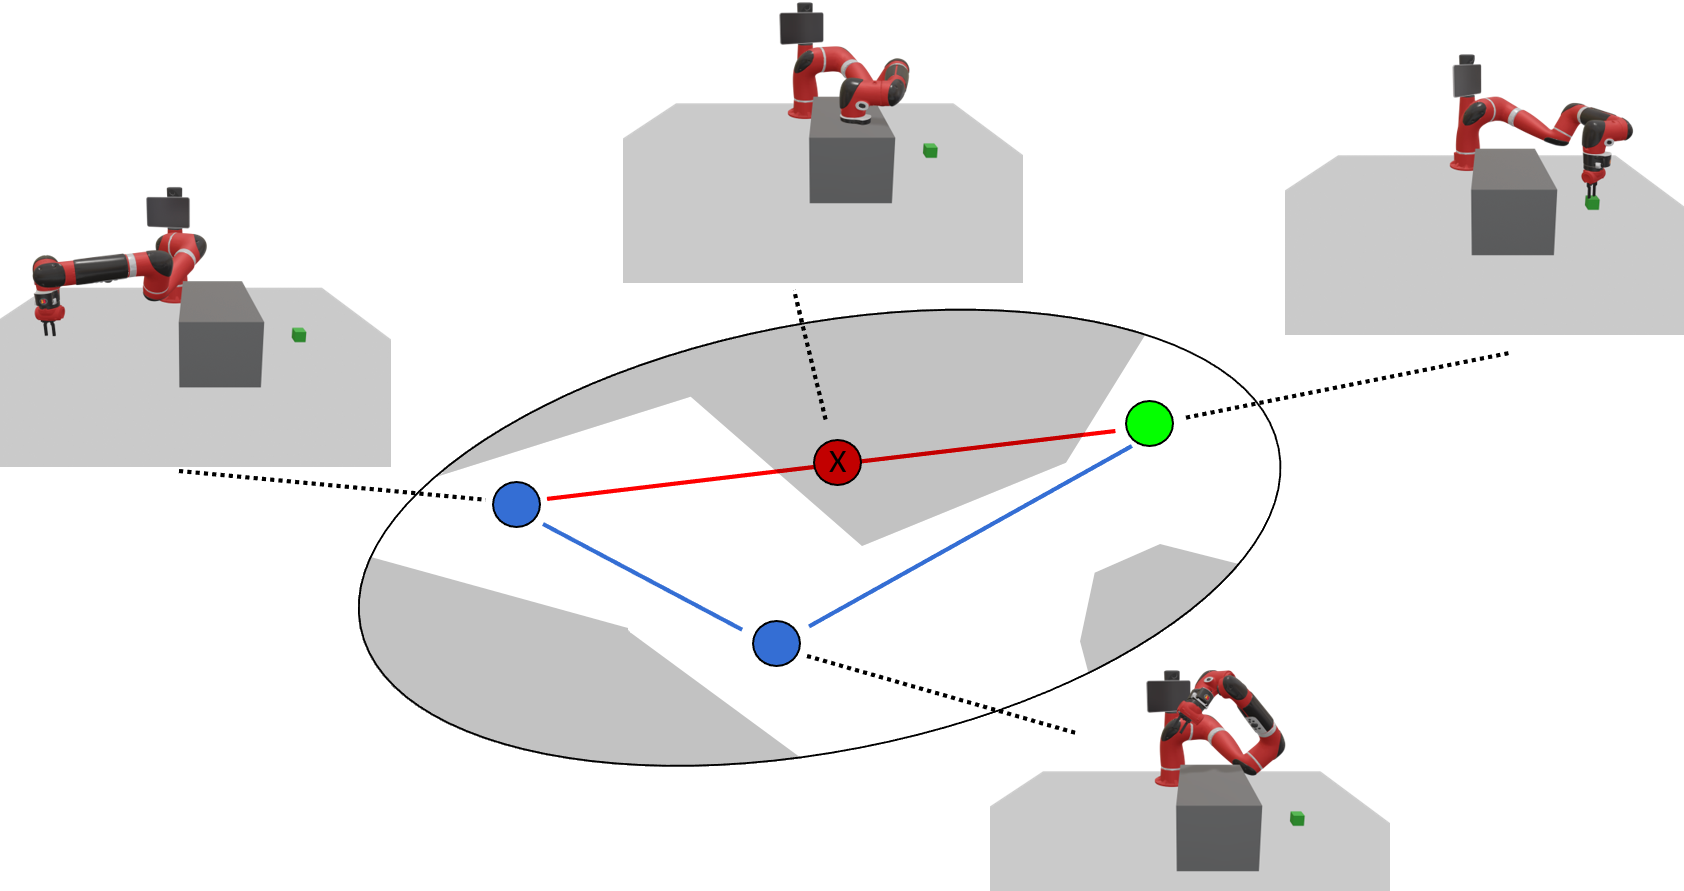
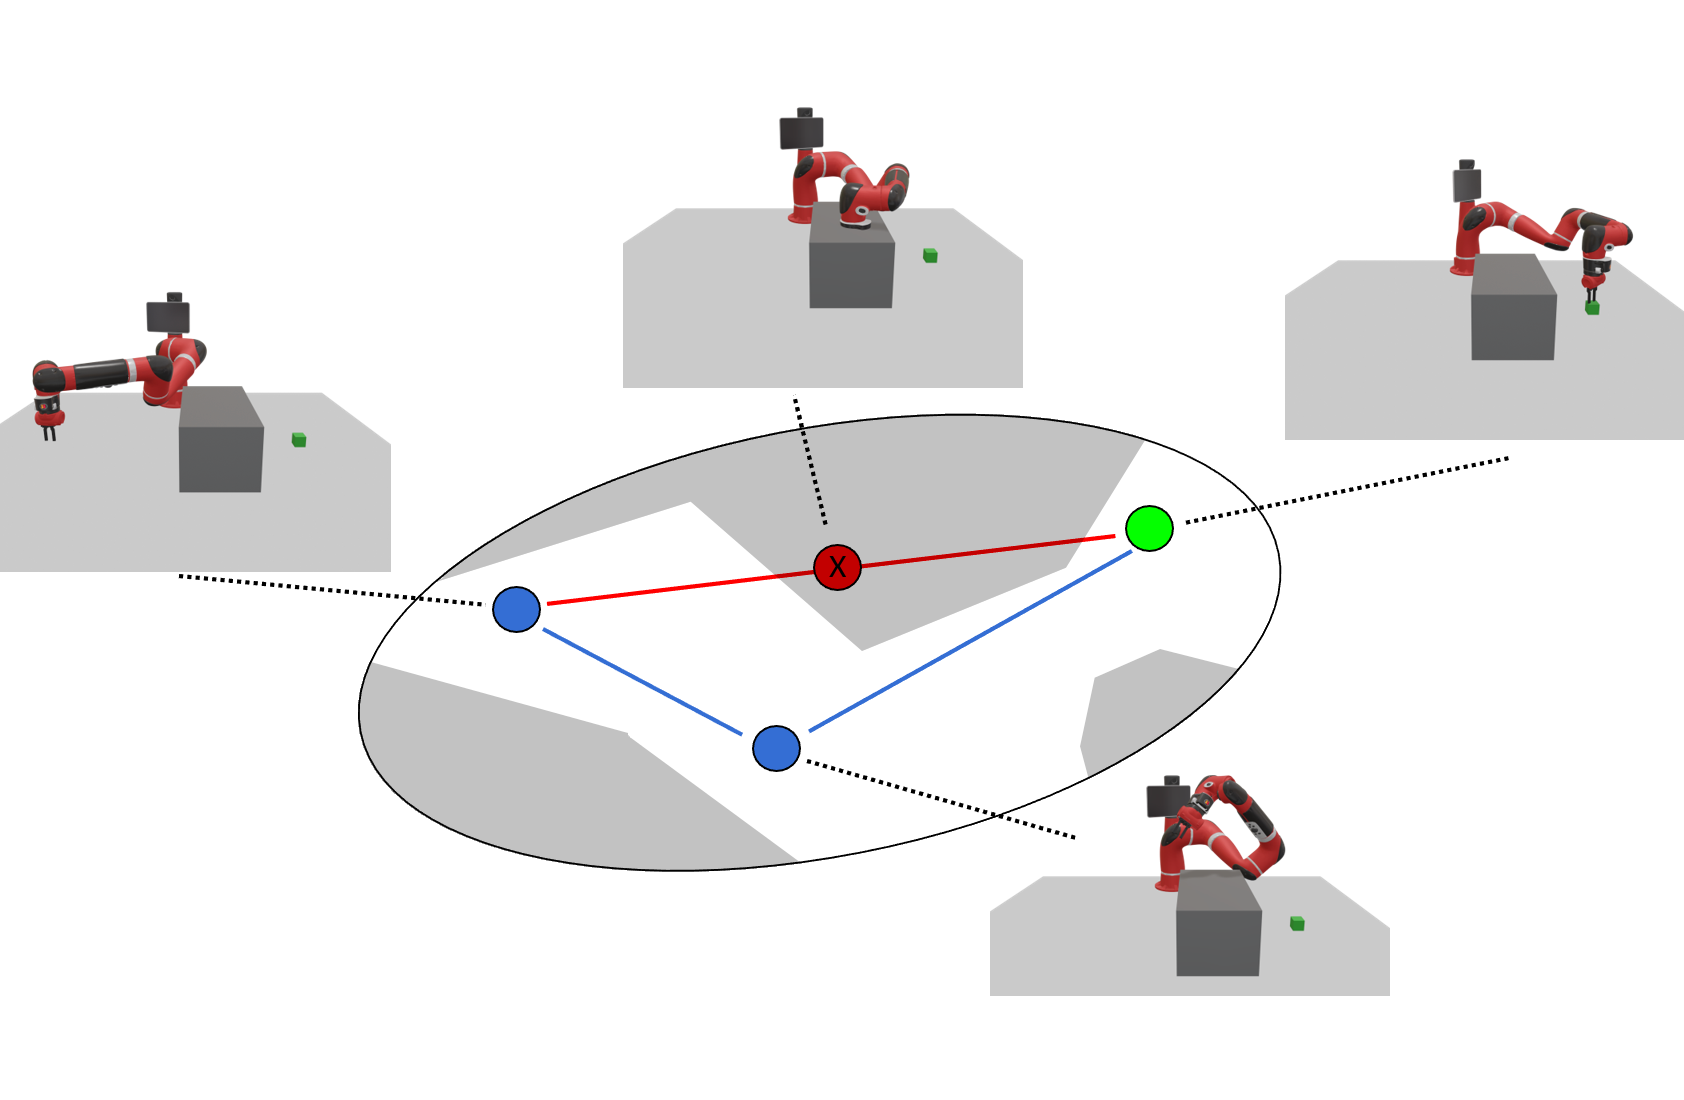
fix image scales

diff --git a/index.html b/index.html
@@ -64,24 +64,30 @@
         <section class="reveal r-stretch" data-transition="fade" data-background-image="dist/images/background.png" >
             <h2 class="title">Introduction</h2>
             <div class="slide-content">
-                <ul class="my-list" style="--spacing: 5vb;">
-                    <li>I am a first time presenter and attender
-                    <li>About me: I work as a robotics scientist at PickNik Robotics. I earned my PhD in computer
-                        science from the University of New Hampshire on the topic of robot learning from demonstration.
-                    <li>I was the primary developer of <code>generate_parameter_library</code>, a ROS 2 library with a
-                        declarative syntax for managing parameters
-                </ul>
+                <ol class="my-list" style="--spacing: 10vb;">
+                    <li>I am a first time presenter and attender at CppCon
+                    <li>About me: I work as a robotics scientist at PickNik Robotics
+                    <li>I earned my PhD in computer science from the University of New Hampshire on the topic of robot learning
+<!--                    <li>I am the primary developer of <code>generate_parameter_library</code>, a ROS 2 library with a-->
+<!--                        declarative syntax for managing parameters-->
+                </ol>
             </div>
         </section>
 
         <section class="reveal r-stretch" data-transition="fade" data-background-image="dist/images/background.png" >
             <h2 class="title">Outline</h2>
             <div class="slide-content">
-                <ul class="my-list" style="--spacing: 5vb;">
-                    <li>Motivate the topic
-                    <li>High level code concept for proposal
-                    <li>Memory layout and performance
-                    <li>Real robot application
+                <ul class="my-list" style="--spacing: 4vb;">
+                    <li>Background
+                    <li>Motivation
+                    <li>Build Process
+                    <li>Code Implementation
+                    <ul class="my-list" style="--spacing: 1vb;">
+                        <li>kinematics interface
+                        <li>memory layout and performance
+                        <li>test executable
+                    </ul>
+                    <li>Results
                     <li>Summary: lessons learned
                 </ul>
             </div>
@@ -92,17 +98,15 @@
         </section>
 
         <section class="reveal r-stretch" data-transition="fade" data-background-image="dist/images/background.png" >
-            <h2 class="title">Background</h2>
-            <div class="slide-content" style="text-align: center">
-                <img style="margin-left: 0vb;margin-top: -5vb; width: 1536px;" src="dist/images/sawyer1.png">
+            <div class="title-slide-content">
+                <img style="--r-block-margin: 0;" src="dist/images/sawyer1.png" class="full-image" >
             </div>
         </section>
 
         <section class="reveal r-stretch" data-transition="fade" data-background-image="dist/images/background.png" >
-            <h2 class="title">Background</h2>
-            <div class="slide-content" style="text-align: center">
-                <img style="margin-top: -5vb; width: 1536px; position: absolute; transform: translate(-768px, 0);" src="dist/images/sawyer2.png">
-                <img class="fragment fade-in" style="margin-top: -5vb;width: 1536px; position: absolute; transform: translate(-768px, 0);" src="dist/images/sawyer3.png">
+            <div class="title-slide-content">
+                <img style="--r-block-margin: 0;" src="dist/images/sawyer2.png" class="full-image" >
+                <img class="full-image fragment fade-in" style="--r-block-margin: 0;"  src="dist/images/sawyer3.png">
             </div>
         </section>
 

diff --git a/template.html b/template.html
@@ -64,24 +64,30 @@
         <section class="reveal r-stretch" data-transition="fade" data-background-image="dist/images/background.png" >
             <h2 class="title">Introduction</h2>
             <div class="slide-content">
-                <ul class="my-list" style="--spacing: 5vb;">
-                    <li>I am a first time presenter and attender
-                    <li>About me: I work as a robotics scientist at PickNik Robotics. I earned my PhD in computer
-                        science from the University of New Hampshire on the topic of robot learning from demonstration.
-                    <li>I was the primary developer of <code>generate_parameter_library</code>, a ROS 2 library with a
-                        declarative syntax for managing parameters
-                </ul>
+                <ol class="my-list" style="--spacing: 10vb;">
+                    <li>I am a first time presenter and attender at CppCon
+                    <li>About me: I work as a robotics scientist at PickNik Robotics
+                    <li>I earned my PhD in computer science from the University of New Hampshire on the topic of robot learning
+<!--                    <li>I am the primary developer of <code>generate_parameter_library</code>, a ROS 2 library with a-->
+<!--                        declarative syntax for managing parameters-->
+                </ol>
             </div>
         </section>
 
         <section class="reveal r-stretch" data-transition="fade" data-background-image="dist/images/background.png" >
             <h2 class="title">Outline</h2>
             <div class="slide-content">
-                <ul class="my-list" style="--spacing: 5vb;">
-                    <li>Motivate the topic
-                    <li>High level code concept for proposal
-                    <li>Memory layout and performance
-                    <li>Real robot application
+                <ul class="my-list" style="--spacing: 4vb;">
+                    <li>Background
+                    <li>Motivation
+                    <li>Build Process
+                    <li>Code Implementation
+                    <ul class="my-list" style="--spacing: 1vb;">
+                        <li>kinematics interface
+                        <li>memory layout and performance
+                        <li>test executable
+                    </ul>
+                    <li>Results
                     <li>Summary: lessons learned
                 </ul>
             </div>
@@ -92,17 +98,15 @@
         </section>
 
         <section class="reveal r-stretch" data-transition="fade" data-background-image="dist/images/background.png" >
-            <h2 class="title">Background</h2>
-            <div class="slide-content" style="text-align: center">
-                <img style="margin-left: 0vb;margin-top: -5vb; width: 1536px;" src="dist/images/sawyer1.png">
+            <div class="title-slide-content">
+                <img style="--r-block-margin: 0;" src="dist/images/sawyer1.png" class="full-image" >
             </div>
         </section>
 
         <section class="reveal r-stretch" data-transition="fade" data-background-image="dist/images/background.png" >
-            <h2 class="title">Background</h2>
-            <div class="slide-content" style="text-align: center">
-                <img style="margin-top: -5vb; width: 1536px; position: absolute; transform: translate(-768px, 0);" src="dist/images/sawyer2.png">
-                <img class="fragment fade-in" style="margin-top: -5vb;width: 1536px; position: absolute; transform: translate(-768px, 0);" src="dist/images/sawyer3.png">
+            <div class="title-slide-content">
+                <img style="--r-block-margin: 0;" src="dist/images/sawyer2.png" class="full-image" >
+                <img class="full-image fragment fade-in" style="--r-block-margin: 0;"  src="dist/images/sawyer3.png">
             </div>
         </section>
 

diff --git a/dist/css/monokai.css b/dist/css/monokai.css
@@ -173,6 +173,16 @@ ul > * {
     padding-bottom: var(--spacing);
 }
 
+ol {
+    height: 100%;
+}
+
+ol > * {
+    /*padding-bottom: calc(100vb/var(--spacing));*/
+    padding-bottom: var(--spacing);
+}
+
+
 .language-cmake .hljs-variable::before {
     color: #c66614;
     content: "${";

diff --git a/plugin/highlight/monokai.css b/plugin/highlight/monokai.css
@@ -173,6 +173,16 @@ ul > * {
     padding-bottom: var(--spacing);
 }
 
+ol {
+    height: 100%;
+}
+
+ol > * {
+    /*padding-bottom: calc(100vb/var(--spacing));*/
+    padding-bottom: var(--spacing);
+}
+
+
 .language-cmake .hljs-variable::before {
     color: #c66614;
     content: "${";
